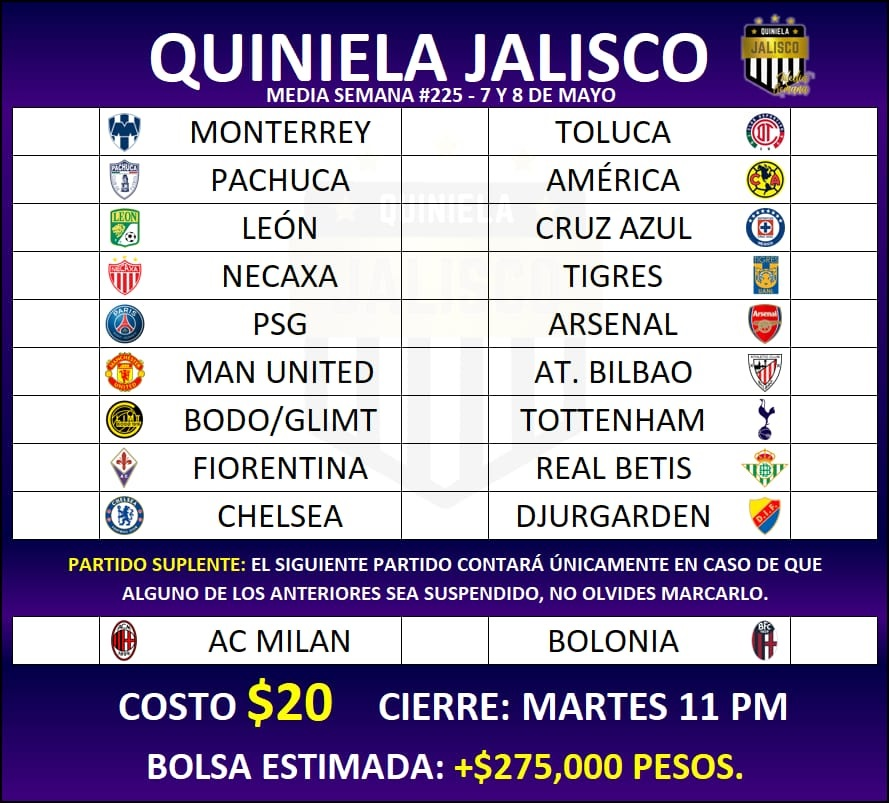
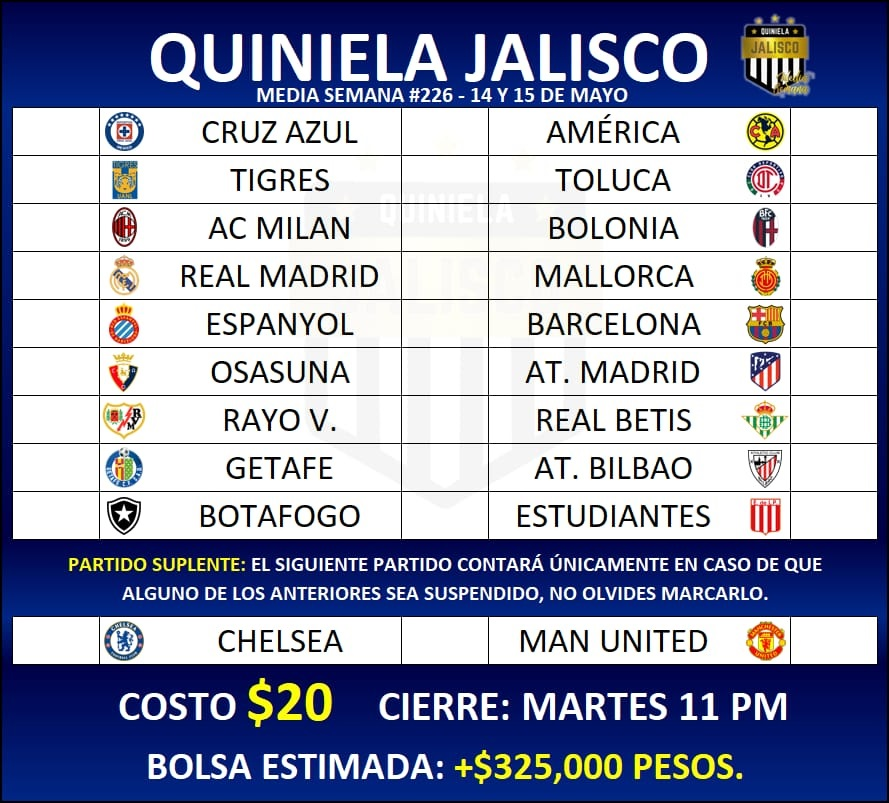
ojdfod

Changed region(s): [[0.0, 0.0311, 1.0, 0.6849], [0.0, 0.8717, 1.0, 1.0], [0.0, 0.6849, 1.0, 0.8406]]

diff --git a/MediaSemana/stylesmSusp.css b/MediaSemana/stylesmSusp.css
@@ -94,8 +94,8 @@ body{
     margin-top: 9%;
     border: solid 1px black;
     border-radius: 0 0 14px 14px;
-    background: -webkit-linear-gradient(0.49turn, rgb(44,1,109) -7%, rgb(0 6 82) 80%);
-    background: linear-gradient(0.49turn, rgb(44,1,109) -7%, rgb(0 6 82) 80%);
+    background: -webkit-linear-gradient(0.49turn, rgb(0,23,109) -7%, rgb(0 6 82) 80%);
+    background: linear-gradient(0.49turn, rgb(0,23,109) -7%, rgb(0 6 82) 80%);
 }
 
 .text-lg{
@@ -294,7 +294,7 @@ h6{
 }
 
 #cantidad:before{
-    content:' +$275,000 pesos';
+    content:' +$325,000 pesos';
     color: yellow;
     white-space:pre;
 }
